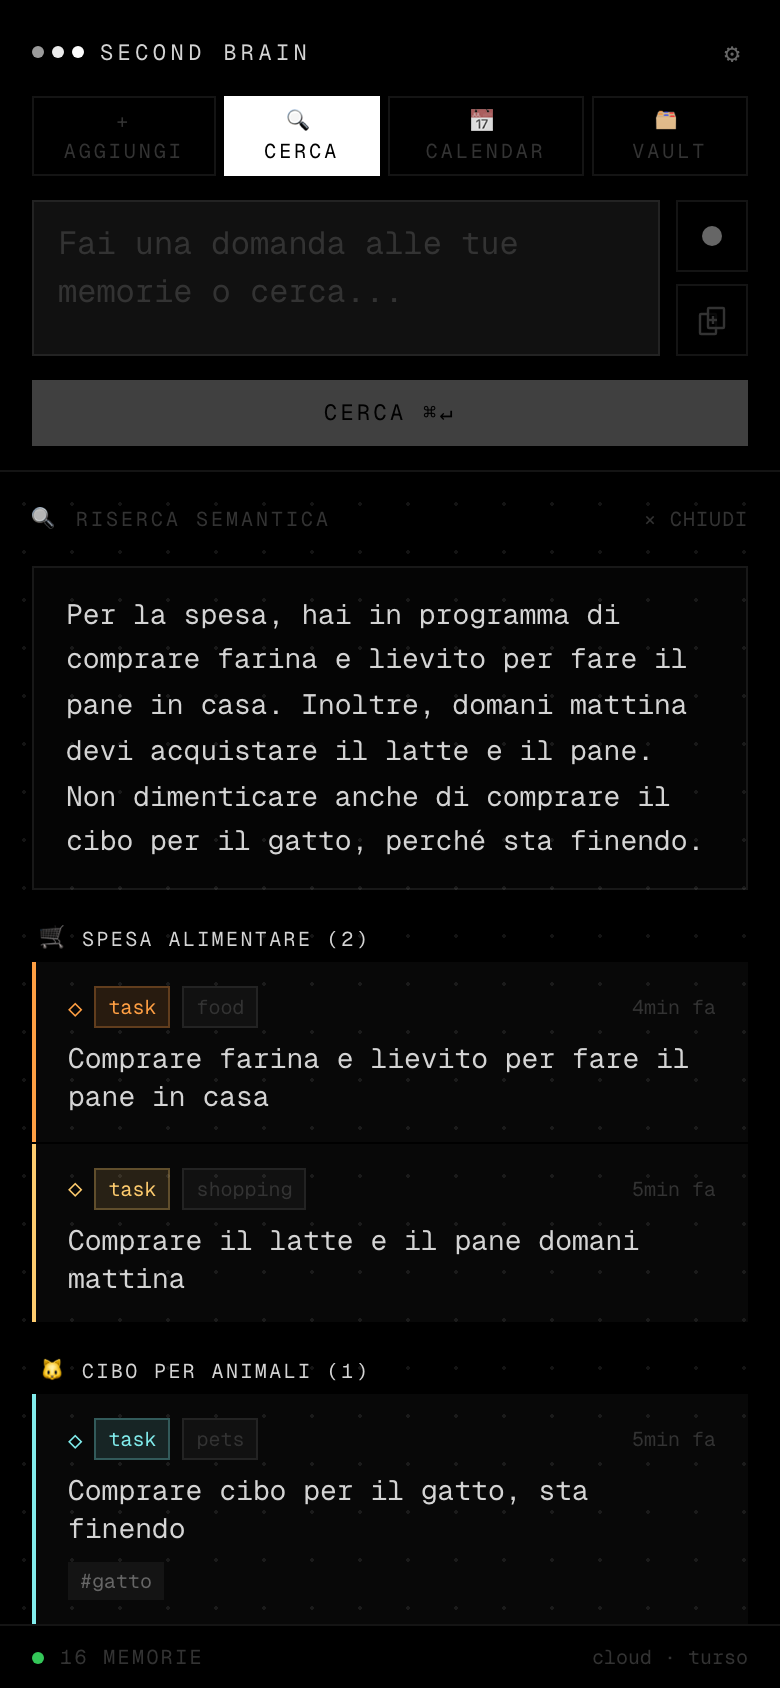
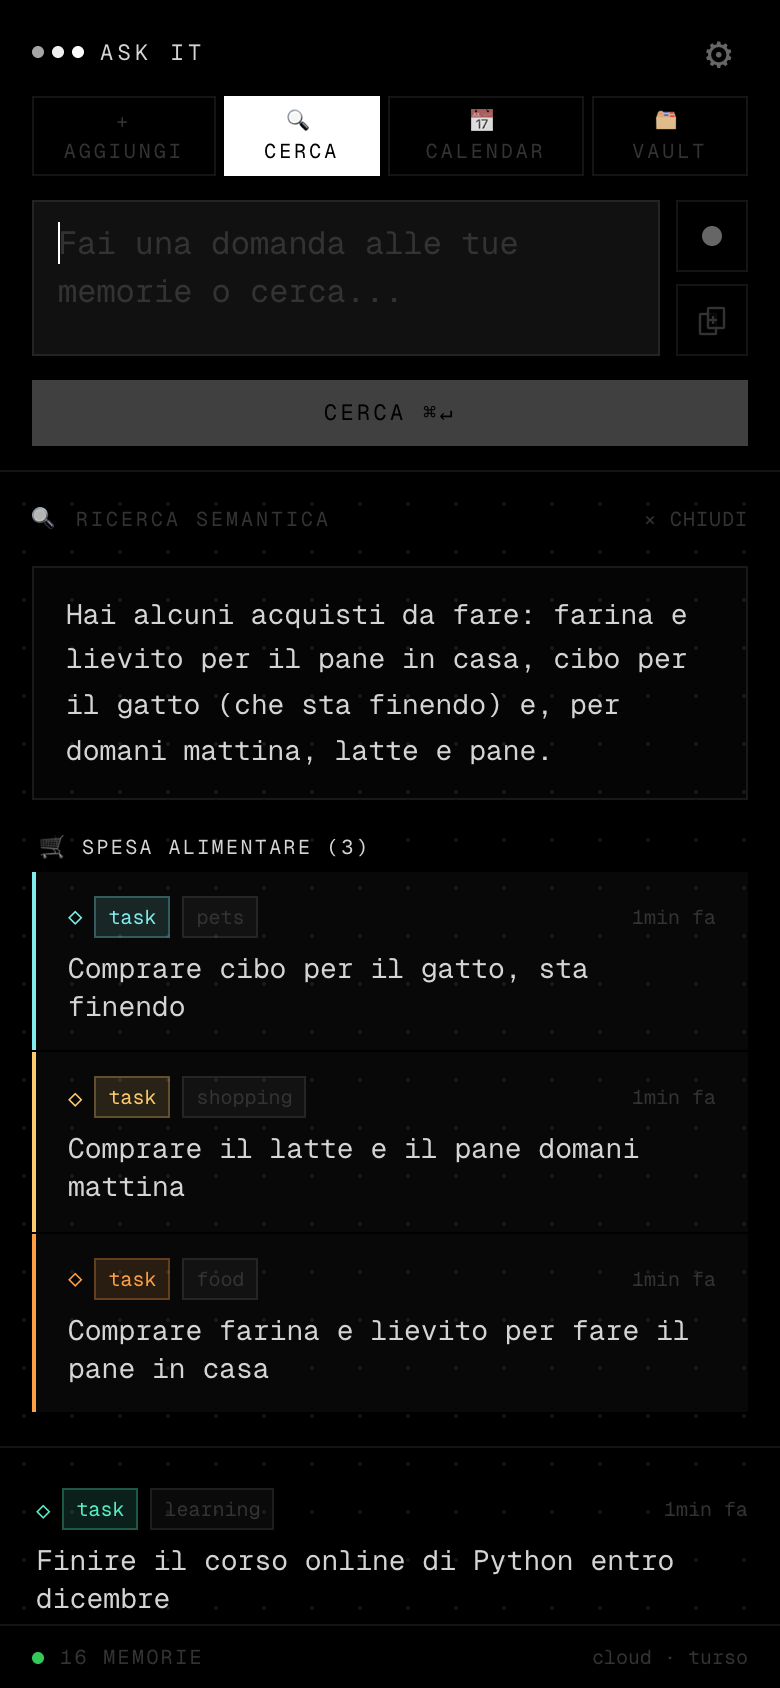
docs: screenshot rifatti con il nome Ask It; correzione refuso "RISERCA"
- i sei screenshot mostravano ancora "SECOND BRAIN" (e il pulsante "Esporta
  vault", ormai rimosso): rifatti da un database di esempio, con l'app in
  produzione locale (niente indicatore di sviluppo) e la nuova impostazione "Esci"
- interfaccia: "RISERCA SEMANTICA" -> "RICERCA SEMANTICA"
- README: post-it/domande e archiviazione con i gesti

diff --git a/src/app/page.tsx b/src/app/page.tsx
@@ -642,7 +642,7 @@ export default function Home() {
             <div className="fade-in border-b border-[var(--border)] px-4 py-4 space-y-4">
               <div className="flex items-center justify-between">
                 <p className="text-[10px] tracking-[0.15em] uppercase" style={{ color: "var(--fg-muted)" }}>
-                  🔍 RISERCA SEMANTICA
+                  🔍 RICERCA SEMANTICA
                 </p>
                 <button
                   onClick={() => setSearchResult(null)}

diff --git a/README.md b/README.md
@@ -22,6 +22,11 @@ commerciali equivalenti chiedono 20-35 €/mese.
   semantica e, opzionalmente, relazioni ragionate dal modello (`DUPLICATES`, `CONTINUES`,
   `CONTRADICTS`, `RELATES_TO`).
 - **Domini a lista controllata** — l'AI assegna ogni nota a uno dei domini configurati (default: food, travel, work…) e non ne inventa altri, così le cartelle del Vault non si frammentano (`cibo`/`food`/`cucina`). La lista si modifica dall'ingranaggio in alto (`/api/settings`); fuori lista → `general`.
+- **Post-it prima, domande dopo** — su *Aggiungi* ogni testo viene salvato come nota, senza
+  eccezioni; le domande si fanno su *Cerca*.
+- **Archivia, non solo elimina** — swipe a destra sulla nota: corto = modifica, lungo e tenuto =
+  archivia (o ripristina, dall'elenco «archiviate»). Swipe a sinistra lungo = elimina per
+  sempre. Le archiviate spariscono da lista, calendario, Vault e ricerca ma restano salvate.
 - **Estetica Nothing Phone** — dark mode ad alto contrasto, dot-grid.
 
 ---
